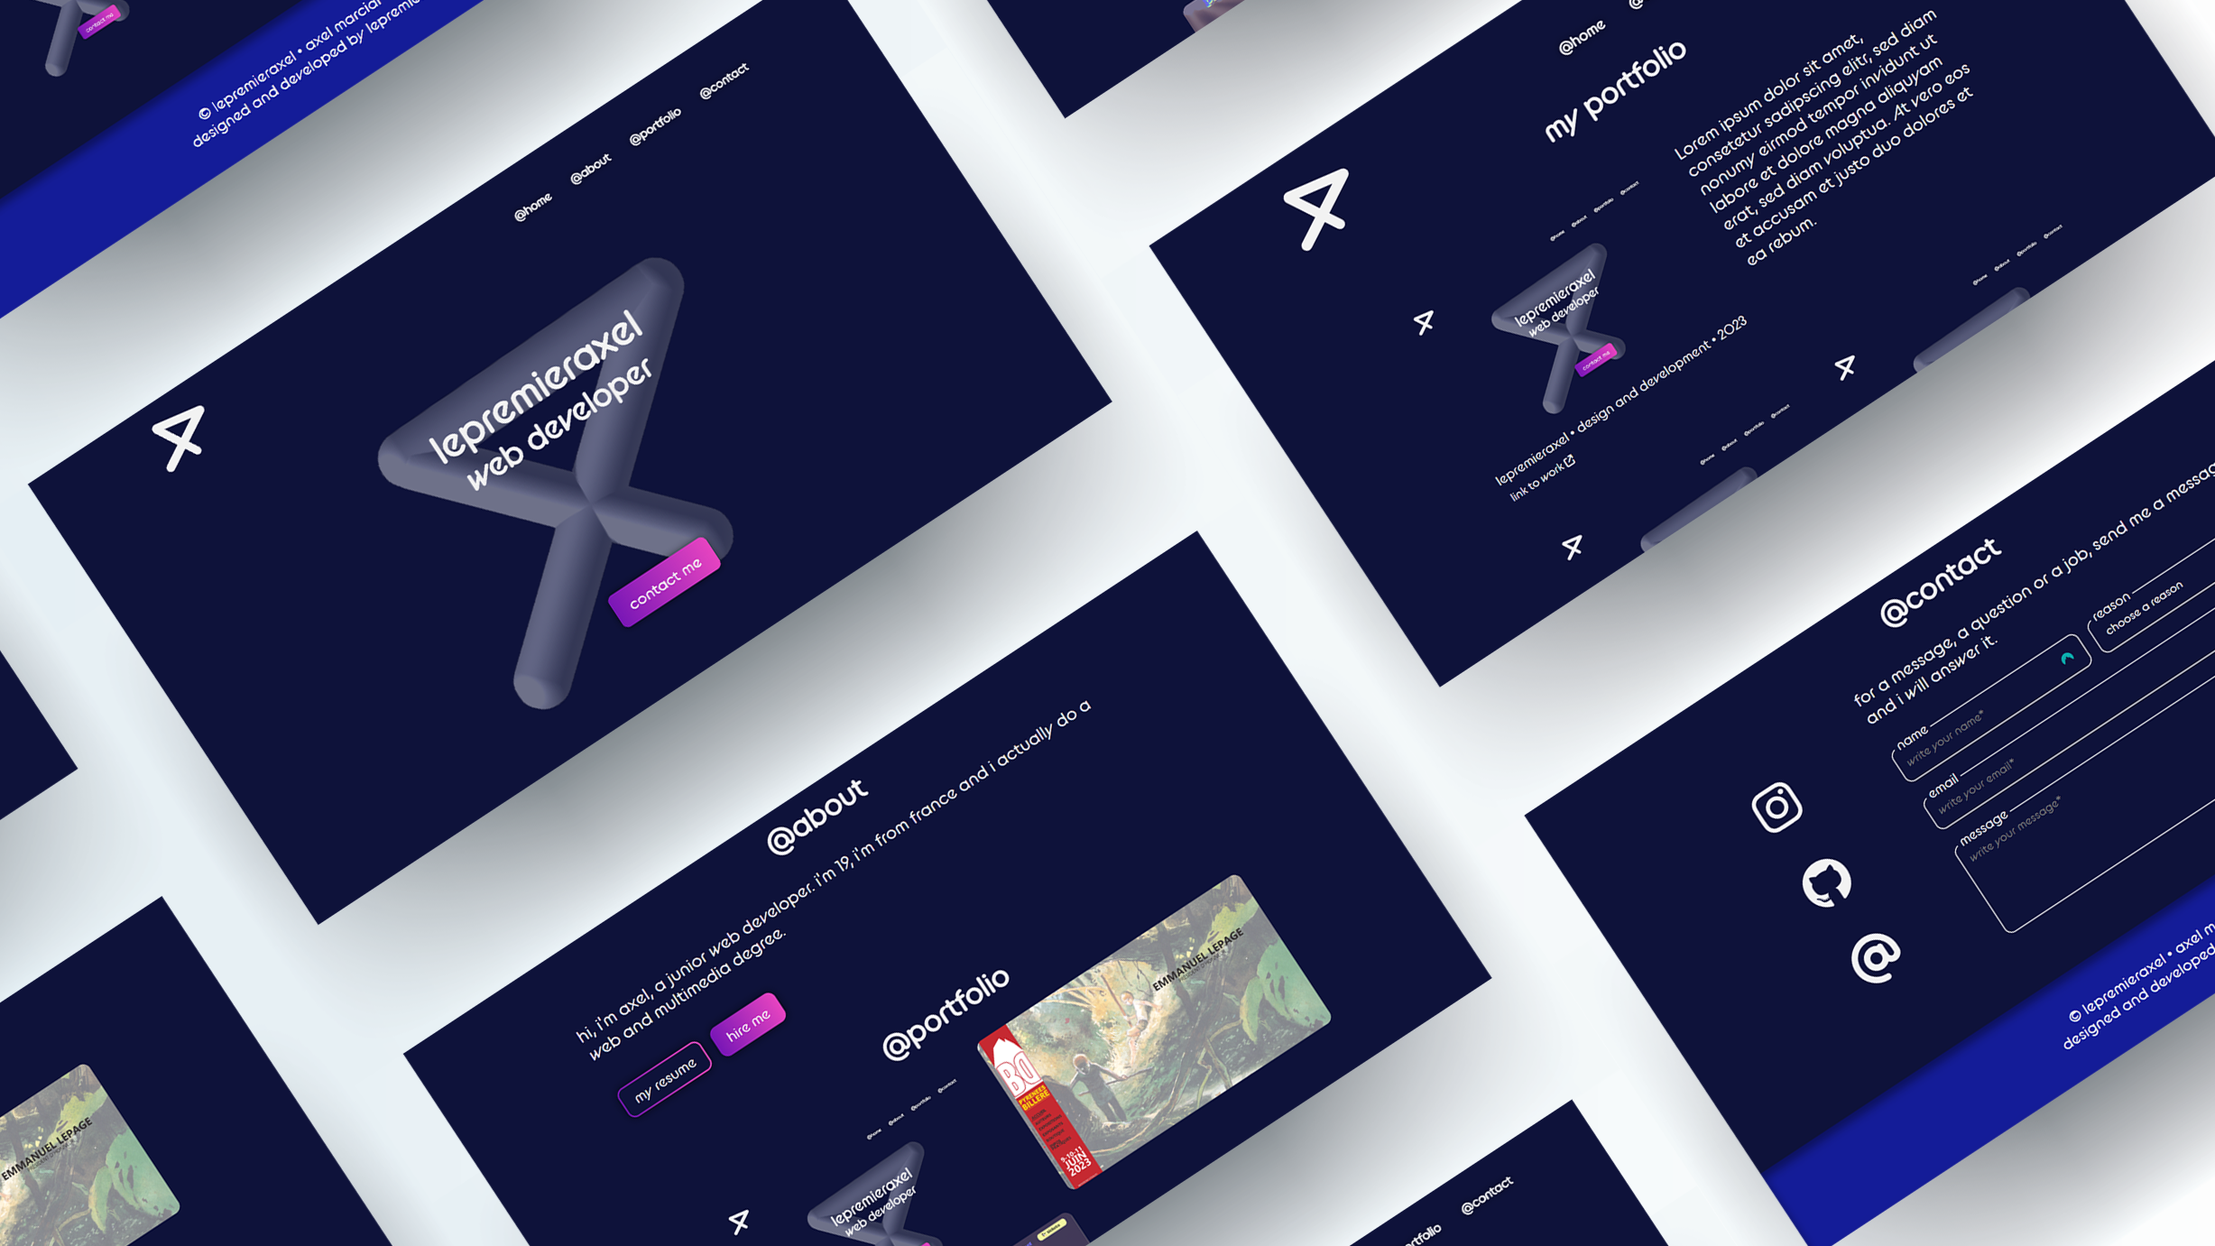
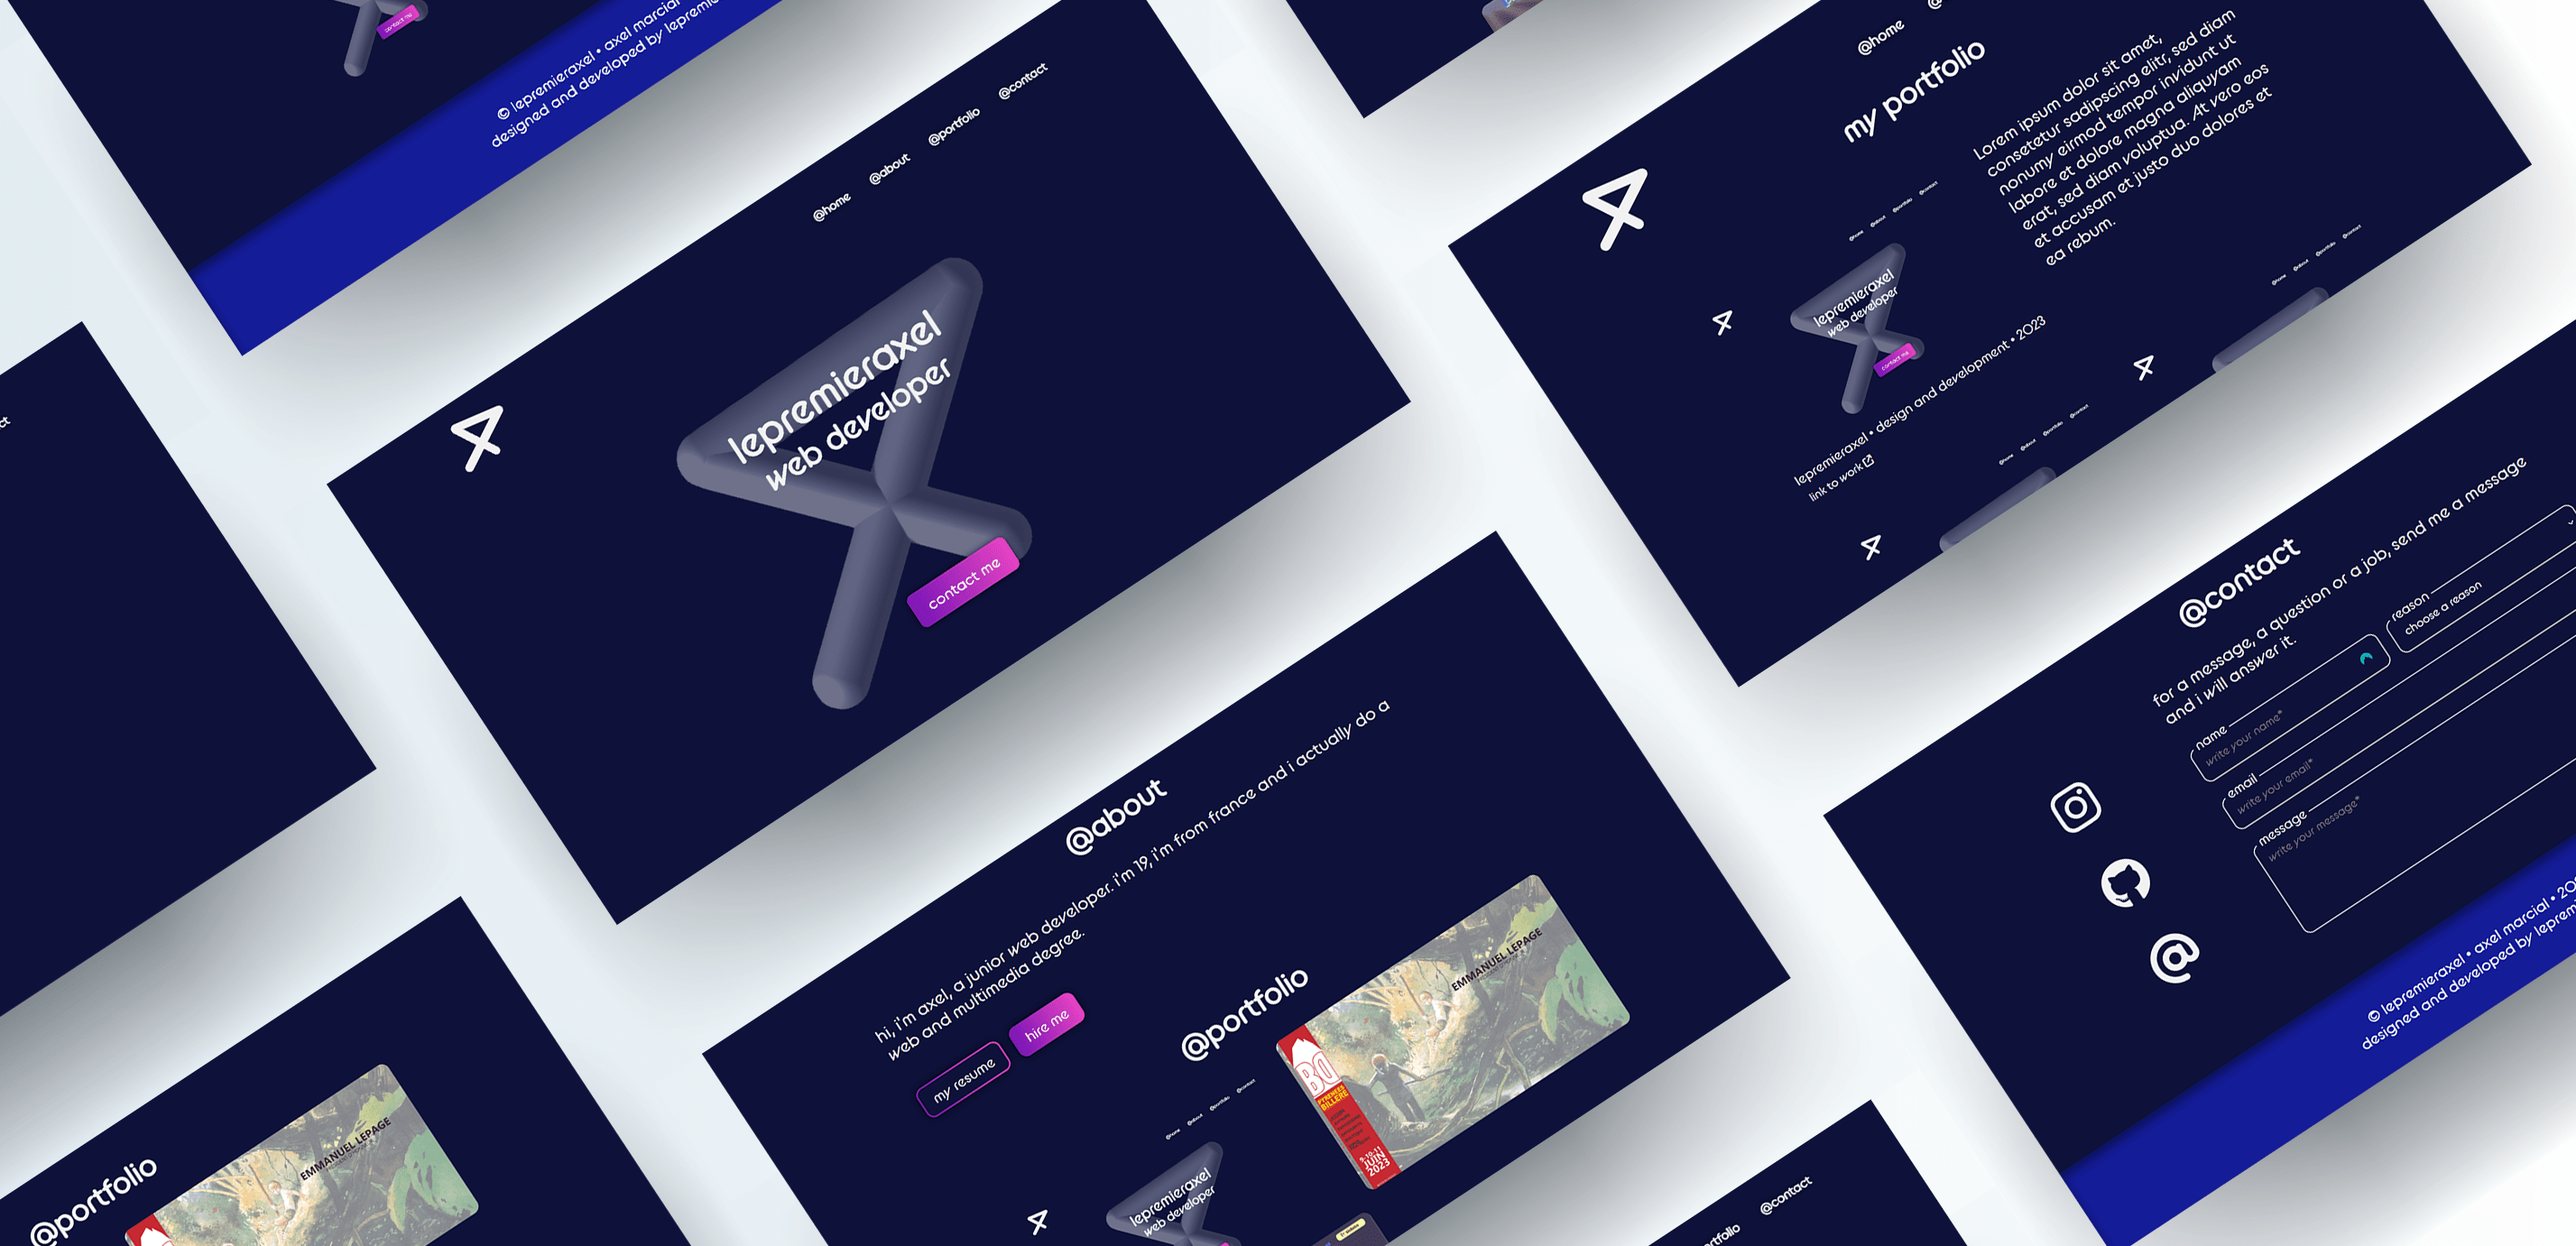
maj

diff --git a/index.php b/index.php
@@ -12,7 +12,7 @@
   <!-- ICONS -->
   <script src="https://kit.fontawesome.com/e0b8ba43a6.js" crossorigin="anonymous"></script>
   <!-- TITLE -->
-  <title>home • lepremieraxel's portfolio</title>
+  <title>accueil • lepremieraxel portfolio</title>
   <!-- FAVICON -->
   <link rel="shortcut icon" href="/assets/img/logo/logo.svg">
 </head>
@@ -26,18 +26,18 @@
       <span></span>
     </div>
     <nav class="burger-container inactive">
-      <a href="/#home">@home</a>
-      <a href="/#about">@about</a>
+      <a href="/#home">@accueil</a>
+      <a href="/#about">@a-propos</a>
       <a href="/#portfolio">@portfolio</a>
       <a href="/#contact">@contact</a>
-      <label class="toggle-control">
+      <!-- <label class="toggle-control">
         <input type="checkbox">
         <span class="control"></span>
-      </label>
+      </label> -->
     </nav>
     <div class="plus-social-container inactive">
-      <a href=""><i class="fa-regular fa-circle-down"></i> download my resume</a>
-      <a href="/#contact"><i class="fa-regular fa-message"></i> contact me</a>
+      <a href=""><i class="fa-regular fa-circle-down"></i> téléchargez mon CV</a>
+      <a href="/#contact"><i class="fa-regular fa-message"></i> contactez moi</a>
       <span class="plus-social-icons">
         <a href="https://www.instagram.com/lepremieraxel/" target="_blank"><i class="fa-brands fa-instagram"></i></a>
         <a href="https://github.com/lepremieraxel" target="_blank"><i class="fa-brands fa-github"></i></a>
@@ -59,19 +59,19 @@
   <main class="hero">
     <div class="main-title">
       <h1>lepremieraxel</h1>
-      <h2>web developer</h2>
+      <h2>développeur web</h2>
     </div>
     <div class="logo-3d">
       <img src="/assets/img/logo/logo3d.png" alt="3D version of lepremieraxel's logo">
     </div>
-    <a href="/#contact" class="cta">contact me</a>
+    <a href="/#contact" class="cta">contactez moi</a>
   </main>
   <section id="about">
-    <h3>@about</h3>
-    <p>hi, i'm axel, a junior web developer. i'm 19, i'm from france and i actually do a web and multimedia degree.</p>
+    <h3>@a-propos</h3>
+    <p>Salut je suis Axel.</p>
     <span class="cta-line">
-      <a href="" class="cta cta-secondary cta-small">my&nbsp;resume</a>
-      <a href="/#contact" id="hire-me-btn" class="cta cta-small">hire&nbsp;me</a>
+      <a href="" class="cta cta-secondary cta-small">mon&nbsp;cv</a>
+      <a href="/#contact" id="hire-me-btn" class="cta cta-small">embauchez&nbsp;moi</a>
     </span>
   </section>
   <section id="portfolio">
@@ -89,7 +89,7 @@
         <a href="mailto:hello@axelmarcial.com"><i class="fa-solid fa-at"></i></a>
       </span>
       <span>
-        <p>for a message, a question or a job, send me a message and i will answer it.</p>
+        <p>pour un message, une question ou une offre d'emploi, envoyez moi un message et j'y répondrais.</p>
         <form action="/src/php/send-mail.php" method="post">
           <?php
           if (isset($_GET['send'])) {
@@ -98,14 +98,14 @@
               case 'true':
           ?>
                 <div class="form-alert form-success">
-                  <p>sent successfully!</p>
+                  <p>envoyé avec succès</p>
                 </div>
               <?php
                 break;
               case 'false':
               ?>
                 <div class="form-alert form-error">
-                  <p>an error has occured. retry.</p>
+                  <p>une erreur s'est produite. réessayez.</p>
                 </div>
           <?php
                 break;
@@ -114,32 +114,32 @@
           ?>
           <span>
             <fieldset>
-              <legend>&nbsp;name&nbsp;</legend>
-              <input type="text" name="name" id="name" placeholder="write your name*" required>
+              <legend>&nbsp;nom&nbsp;</legend>
+              <input type="text" name="name" id="name" placeholder="écrivez votre nom*" required>
             </fieldset>
             <fieldset>
-              <legend>&nbsp;reason&nbsp;</legend>
+              <legend>&nbsp;raison&nbsp;</legend>
               <div class="custom-select">
                 <select name="reason" id="reason" required>
-                  <option value="">choose a reason</option>
+                  <option value="">choisissez une raison</option>
                   <option value="message">message</option>
                   <option value="question">question</option>
-                  <option id="hire-option" value="offre-emploi">hiring offer</option>
-                  <option value="feedback">experience feedback</option>
-                  <option value="etudiant-stage">student / internship</option>
-                  <option value="projet">interesting project idea</option>
+                  <option id="hire-option" value="offre-emploi">offre d'emploi</option>
+                  <option value="feedback">retour d'experience</option>
+                  <option value="etudiant-stage">étudiant / stage</option>
+                  <option value="projet">idée de projet intéréssant</option>
                 </select>
               </div>
             </fieldset>
           </span>
           <fieldset>
             <legend>&nbsp;email&nbsp;</legend>
-            <input type="email" name="email" id="email" placeholder="write your email*" required>
+            <input type="email" name="email" id="email" placeholder="écrivez votre email*" required>
           </fieldset>
           <fieldset>
             <legend>&nbsp;message&nbsp;</legend>
-            <textarea name="message" id="message" placeholder="write your message*" required></textarea>
-            <button type="submit">send</button>
+            <textarea name="message" id="message" placeholder="écrivez votre message*" required></textarea>
+            <button type="submit">envoyer</button>
           </fieldset>
         </form>
       </span>
@@ -147,7 +147,7 @@
   </section>
   <footer>
     <p>&copy; lepremieraxel • axel marcial • 2023</p>
-    <p>designed and developed by lepremieraxel</p>
+    <p>designé et développé par lepremieraxel</p>
   </footer>
   <!-- SCRIPT JS -->
   <script src="/src/js/plus-social.js"></script>

diff --git a/src/page/page.php b/src/page/page.php
@@ -12,13 +12,13 @@
   <!-- ICONS -->
   <script src="https://kit.fontawesome.com/e0b8ba43a6.js" crossorigin="anonymous"></script>
   <!-- TITLE -->
-  <title>home • lepremieraxel's portfolio</title>
+  <?php include("../php/print-data-page.php"); ?>
+  <title><?php pageTitle(); ?> • lepremieraxel portfolio</title>
   <!-- FAVICON -->
   <link rel="shortcut icon" href="/assets/img/logo/logo.svg">
 </head>
 
 <body id="home">
-  <?php include("../php/print-data-page.php"); ?>
   <div class="scrollbar"></div>
   <header>
     <div class="plus-social">
@@ -26,14 +26,14 @@
       <span></span>
     </div>
     <nav class="burger-container inactive">
-      <a href="/#home">@home</a>
-      <a href="/#about">@about</a>
+      <a href="/#home">@accueil</a>
+      <a href="/#about">@a-propos</a>
       <a href="/#portfolio">@portfolio</a>
       <a href="/#contact">@contact</a>
     </nav>
     <div class="plus-social-container inactive">
-      <a href=""><i class="fa-regular fa-circle-down"></i> download my resume</a>
-      <a href="/#contact"><i class="fa-regular fa-message"></i> contact me</a>
+      <a href=""><i class="fa-regular fa-circle-down"></i> téléchargez mon cv</a>
+      <a href="/#contact"><i class="fa-regular fa-message"></i> contactez moi</a>
       <span class="plus-social-icons">
         <a href="https://www.instagram.com/lepremieraxel/" target="_blank"><i class="fa-brands fa-instagram"></i></a>
         <a href="https://github.com/lepremieraxel" target="_blank"><i class="fa-brands fa-github"></i></a>
@@ -57,7 +57,7 @@
   </section>
   <footer>
     <p>&copy; lepremieraxel • axel marcial • 2023</p>
-    <p>designed and developed by lepremieraxel</p>
+    <p>designé et développé par lepremieraxel</p>
   </footer>
   <!-- SCRIPT JS -->
   <script src="/src/js/plus-social.js"></script>

diff --git a/src/php/print-data-page.php b/src/php/print-data-page.php
@@ -6,6 +6,17 @@ $jsonFileContent = file_get_contents($jsonFile);
 
 $jsonContentDecode = json_decode($jsonFileContent, true);
 
+function pageTitle(){
+  global $jsonContentDecode;
+  $getTitle = $_GET['title'];
+  foreach ($jsonContentDecode as $project) {
+    if ($project['title'] == $getTitle) {
+      $title = str_replace('-', ' ', $project['title']);
+      echo $title;
+    }
+  }
+}
+
 function printPage()
 {
   global $jsonContentDecode;
@@ -18,7 +29,7 @@ function printPage()
         <span>
           <img src="/assets/img/portfolio/' . $project['mainImg'] . '" alt="" />
           <p>' . $project['subtitle'] . '</p>
-          <a href="'.$project['link'].'" target="_blank">link&nbsp;to&nbsp;work&nbsp;<i class="fa-solid fa-arrow-up-right-from-square"></i></a>
+          <a href="'.$project['link'].'" target="_blank">lien&nbsp;vers&nbsp;le&nbsp;travail&nbsp;<i class="fa-solid fa-arrow-up-right-from-square"></i></a>
         </span>
         <span>
           <p>' . $project['text'] . '</p>
